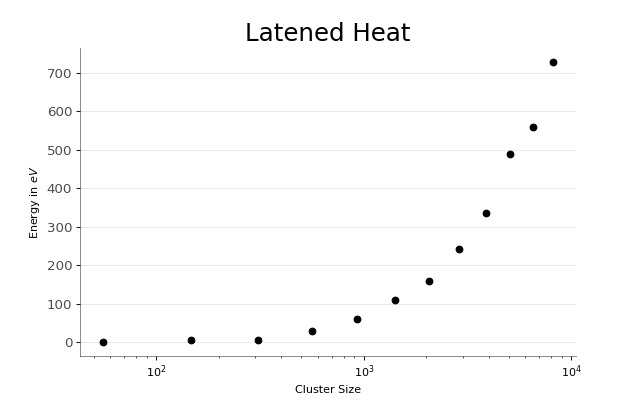
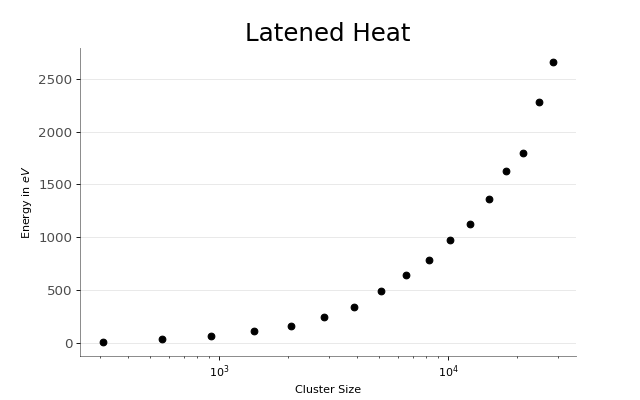
added graphs for ms07

diff --git a/milestones/07/ovito/plot_temperature_vs_heat_capacity.py b/milestones/07/ovito/plot_temperature_vs_heat_capacity.py
@@ -9,11 +9,11 @@ headers = ["Etotal", "Temperature", "Heat Capacity"]
 
 # Import Data
 # numbers = ["55"]
-numbers = ["55", "147", "309", "561", "923", "1415", "2057"]
+# numbers = ["55", "147", "309", "561", "923", "1415", "2057"]
 # numbers = ["2869", "3871", "5083", "6525", "8217", "10179", "12431", "14993", "17885", "21127", "24739", "28741"]
-# numbers = ["55", "147", "309", "561", "923", "1415", "2057", "2869", "3871",
-#            "5083", "6525", "8217", "10179", "12431", "14993", "17885",
-#            "21127", "24739", "28741"]
+numbers = ["55", "147", "309", "561", "923", "1415", "2057", "2869", "3871",
+           "5083", "6525", "8217", "10179", "12431", "14993", "17885",
+           "21127", "24739", "28741"]
 
 dfs = [pd.read_csv('energy_' + num + '.csv', header=None, sep="\t") for num in numbers]
 for df in dfs:
@@ -28,10 +28,10 @@ mycolors = ['tab:pink', 'tab:blue', 'tab:green', 'tab:orange',
             'tab:brown', 'tab:grey', 'tab:red', 'tab:olive',
             'deeppink', 'steelblue', 'firebrick', 'mediumseagreen']
 
-plt.figure(figsize=(8, 5), dpi=80)
+plt.figure(figsize=(12, 7), dpi=100)
 
 for i, df in enumerate(dfs):
-    plt.plot(df[headers[1]], df[headers[2]], "o", color=mycolors[i % len(mycolors)], label=numbers[i])
+    plt.plot(df[headers[1]], df[headers[2]], "o", markersize=2, color=mycolors[i % len(mycolors)], label=numbers[i])
     # plt.text(df[headers[2]].iloc[-1], max(df[headers[2]]) + 50, numbers[i], horizontalalignment='center', color=mycolors[i % len(mycolors)])
 
 # Decoration

diff --git a/milestones/07/ovito/plot_energy_vs_temp.py b/milestones/07/ovito/plot_energy_vs_temp.py
@@ -9,11 +9,11 @@ headers = ["Etotal", "Temperature"]
 
 # Import Data
 # numbers = ["923"]
-numbers = ["55", "147", "309", "561", "923", "1415", "2057", "2869"]
+# numbers = ["55", "147", "309", "561", "923", "1415", "2057", "2869"]
 # numbers = ["3871", "5083", "6525", "8217", "10179", "12431", "14993", "17885", "21127", "24739", "28741"]
-# numbers = ["55", "147", "309", "561", "923", "1415", "2057", "2869", "3871",
-#            "5083", "6525", "8217", "10179", "12431", "14993", "17885",
-#            "21127", "24739", "28741"]
+numbers = ["55", "147", "309", "561", "923", "1415", "2057", "2869", "3871",
+           "5083", "6525", "8217", "10179", "12431", "14993", "17885",
+           "21127", "24739", "28741"]
 
 dfs = [pd.read_csv('energy_' + num + '.csv', header=None, usecols=[0, 1], sep="\t") for num in numbers]
 for df in dfs:

diff --git a/milestones/07/ovito/plot_intersection_calculation_for_latent_heat_and_melting_point.py b/milestones/07/ovito/plot_intersection_calculation_for_latent_heat_and_melting_point.py
@@ -9,7 +9,7 @@ headers = ["Etotal", "Temperature"]
 
 # numbers = ["8217"]
 # numbers = ["55", "147", "309", "561", "923", "1415", "2057", "2869", "3871", "5083", "6525", "8217"]
-numbers = ["55", "147", "309", "561", "923", "1415", "2057", "2869", "3871",
+numbers = ["309", "561", "923", "1415", "2057", "2869", "3871",
            "5083", "6525", "8217", "10179", "12431", "14993", "17885", "21127",
            "24739", "28741"]
 

diff --git a/milestones/07/ovito/plot_melting_points.py b/milestones/07/ovito/plot_melting_points.py
@@ -10,7 +10,7 @@ plt.figure(figsize=(8, 5), dpi=80)
 
 # Import and draw data
 nums_and_points = []
-with open('intersection points', "r") as f:
+with open('intersection points all', "r") as f:
     for i, line in enumerate(f):
         num, *pts = line.split("\t")
         for p in pts:
